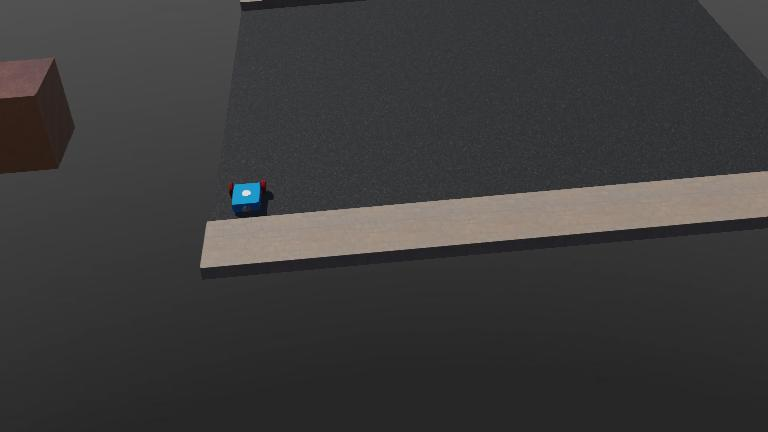
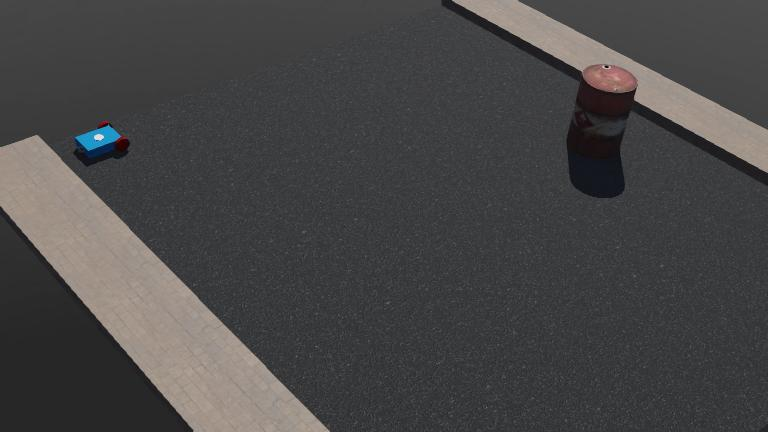
working on obstacle avoidance

diff --git a/controllers/main/driveSystem.py b/controllers/main/driveSystem.py
@@ -3,11 +3,12 @@ import math
 
 
 class DriveSystem:
-    def __init__(self, robot, sensor, timestep, state=None):
+    def __init__(self, robot, sensor, timestep, state=None, obstacle_avoider=None):
         self.robot = robot
         self.sensor = sensor
         self.timestep = timestep
         self.state = state
+        self.obstacle_avoider = obstacle_avoider
         self.MAX_SPEED = 5.0
         
         # Initialize motors
@@ -54,8 +55,11 @@ class DriveSystem:
             if all(v < 0.01 for v in velocities):
                 break
     
+    
+
+
     def forward(self, speed, steps=10, duration=None):
-        """Move forward with smooth acceleration"""
+        """Move forward with smooth acceleration and obstacle detection"""
         speed = min(speed, self.MAX_SPEED)
         self._ramp_speed([speed] * 2, steps)
         
@@ -64,10 +68,13 @@ class DriveSystem:
             while self.robot.step(self.timestep) != -1:
                 if self.state:
                     self.state.update()
+                
+               
                 if self.robot.getTime() - start_time >= duration:
                     self.stop()
                     break
-    
+        return True  # Path was clear
+
     def backward(self, speed, steps=10, duration=None):
         """Move backward with smooth acceleration"""
         speed = min(speed, self.MAX_SPEED)
@@ -138,11 +145,17 @@ class DriveSystem:
         return any(v > 0.01 for v in velocities)
 
     def drive_distance(self, speed, distance):
-        """Move forward a specific distance in meters"""
+        """Move forward a specific distance in meters with obstacle detection"""
         if self.state is None:
             print("Error: State tracking required for distance-based movement")
-            return
-        
+            return False
+        #check for obstacles
+        # if self.obstacle_avoider and self.obstacle_avoider.is_obstacle_detected():
+        #     self.stop()
+        #     return False
+
+
+
         speed = min(speed, self.MAX_SPEED)
         start_x = self.state.x
         start_y = self.state.y
@@ -152,7 +165,12 @@ class DriveSystem:
         
         while self.robot.step(self.timestep) != -1:
             self.state.update()
+            #check for obstacles
+            # if self.obstacle_avoider and self.obstacle_avoider.is_obstacle_detected():
+            #     self.stop()
+            #     return False
             
+                        
             # Calculate distance traveled
             dx = self.state.x - start_x
             dy = self.state.y - start_y
@@ -162,3 +180,4 @@ class DriveSystem:
                 break
         
         self.stop()
+        return True  # Successfully completed movement

diff --git a/controllers/main/navigation.py b/controllers/main/navigation.py
@@ -3,14 +3,15 @@ import math
 from pathGeneration.PathGenerator import PathCoordinates
 
 class Navigator:
-    def __init__(self, state, drive_system):
+    def __init__(self, state, drive_system, obstacle_avoider=None):
         self.state = state
         self.drive = drive_system
         self.path_points = None
         self.current_point_index = 0
-        self.position_tolerance = 0.1  # meters
-        self.angle_tolerance = 2.0  # degrees
+        self.position_tolerance = 0.05  # meters
+        self.angle_tolerance = 1.0  # degrees
         self.default_speed = 3.0
+
 
     def load_path(self):
         """Load and process path points from PathGenerator"""
@@ -19,9 +20,14 @@ class Navigator:
       
         # Convert from inches to meters
         self.path_points = (points - 8) * 0.0254  # 1 inch = 0.0254 meters
+        # add a 0,0 point to the end of the path
+        self.path_points = np.vstack([self.path_points, [0,0]])
+       
+
         print(self.path_points)
         self.current_point_index = 0
         return self.path_points
+
 
 
     def get_angle_to_target(self, target_x, target_y):

diff --git a/controllers/main/main.py b/controllers/main/main.py
@@ -1,8 +1,10 @@
 from controller import Robot
 from driveSystem import DriveSystem
 from sensors.digitalCompass import DigitalCompass
+from sensors.laserRange import LaserRange
 from state import State
 from navigation import Navigator
+from obstacleAvoidance import ObstacleAvoider
 
 # Initialize the robot
 robot = Robot()
@@ -22,17 +24,24 @@ def print_position(state):
 
 # Create sensor systems
 sensor = DigitalCompass(robot, timestep)
+laser_range = LaserRange(robot, timestep)
 state = State(robot, timestep)
 
 # Create drive system with state
 drive = DriveSystem(robot, sensor, timestep, state)
 
+# Create obstacle avoider
+obstacle_avoider = ObstacleAvoider(state, drive, laser_range)
+
+# Update drive system with obstacle avoider
+drive.obstacle_avoider = obstacle_avoider
+
 # Create navigation system
 navigator = Navigator(state, drive)
 
-# pen tracking
-pen = robot.getDevice("TRACK_PEN")
-pen.write(False)  # Activate the pen
+# # pen tracking
+# pen = robot.getDevice("TRACK_PEN")
+# pen.write(False)  # Activate the pen
 
 
 

diff --git a/controllers/main/sensors/laserRange.py b/controllers/main/sensors/laserRange.py
@@ -1,0 +1,19 @@
+
+
+class LaserRange:
+    def __init__(self, robot, timestep):
+        self.distance_sensor = robot.getDevice("distance sensor")
+        self.distance_sensor.enable(timestep)
+        self.max_distance = 2.0  # Maximum reliable detection distance in meters
+        self.min_safe_distance = 1.0  # Minimum safe distance in meters
+
+    def get_distance(self):
+        """Get the current distance reading in meters"""
+        return self.distance_sensor.getValue()/1000
+
+    def is_obstacle_detected(self):
+        """Check if an obstacle is within the minimum safe distance"""
+        distance = self.get_distance()
+        return distance < self.min_safe_distance and distance >= 0
+
+  

diff --git a/controllers/main/obstacleAvoidance.py b/controllers/main/obstacleAvoidance.py
@@ -1,0 +1,23 @@
+import math
+
+class ObstacleAvoider:
+    def __init__(self, state, drive_system, laser_range):
+        self.state = state
+        self.drive = drive_system
+        self.laser_range = laser_range
+        self.avoidance_speed = 2.0
+        self.turn_speed = 2.0
+        self.min_turn_angle = 45  # Minimum angle to turn when avoiding
+
+
+    def is_obstacle_detected(self):
+        if self.laser_range.get_distance_to_obstacle() < 1.0:
+            return True
+        else:
+            return False
+    def get_distance_to_obstacle(self):
+        return self.laser_range.get_distance_to_obstacle()
+
+    
+
+
